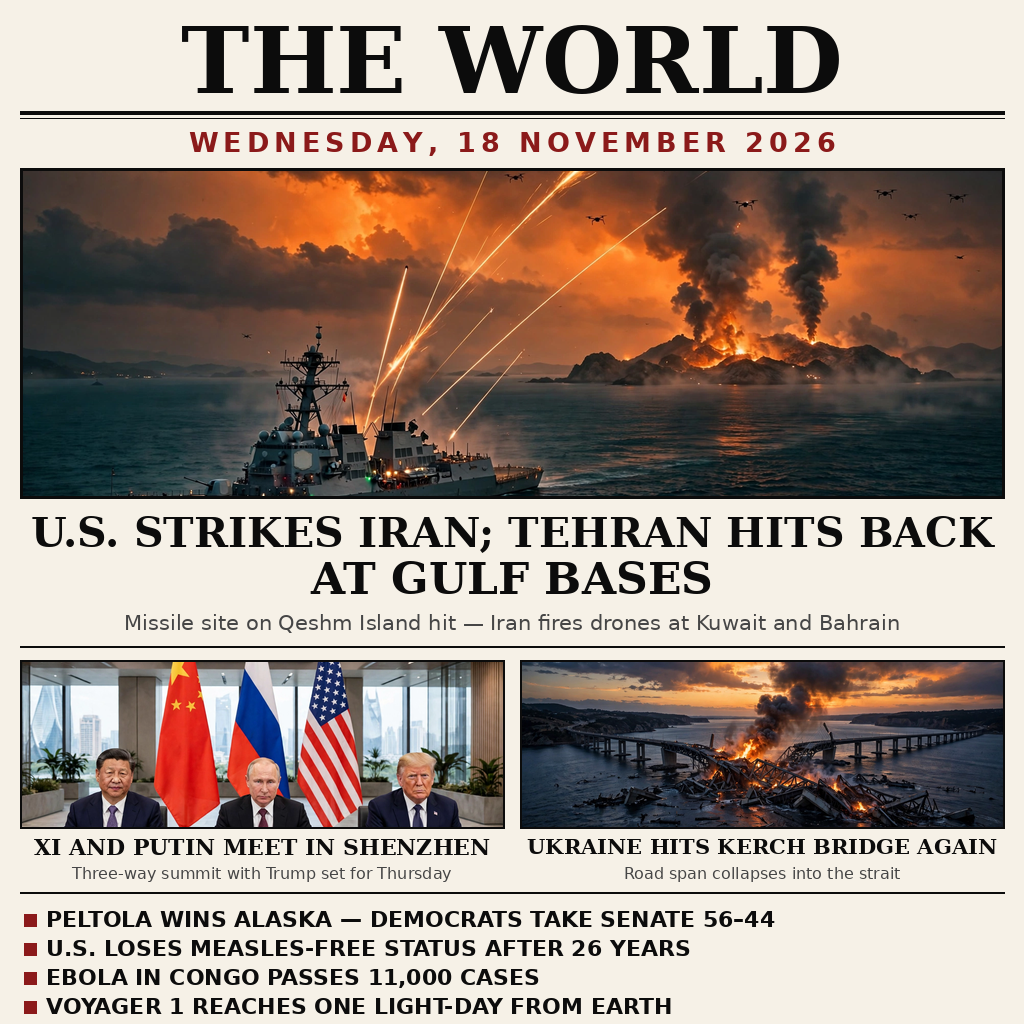
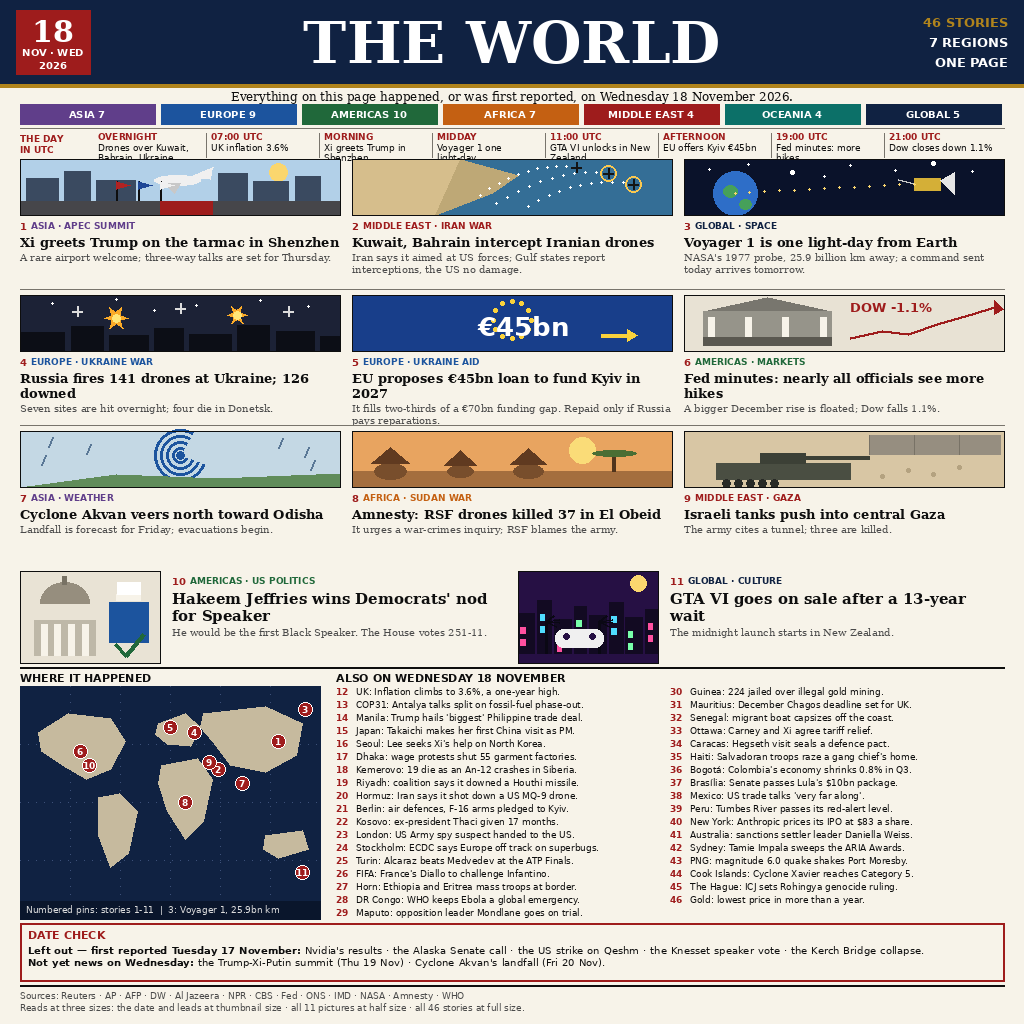
news-image-20261118 v2: dense 46-story front page, date-corrected

diff --git a/main.py b/main.py
@@ -1,15 +1,19 @@
 #!/usr/bin/env python3
 """news-image-20261118 entry: copy the front page to /output/entry.png.
 
-The image is "THE WORLD", a one-page newspaper front page summing up
-Wednesday 18 November 2026: the U.S. strike on Iran's Qeshm Island and
-Iran's drone attacks on Kuwait and Bahrain (lead story), the Xi-Putin
-meeting in Shenzhen ahead of the three-way summit with Trump, Ukraine's
-second-day strike on the Kerch Bridge, plus Peltola's Alaska Senate win,
-the U.S. losing measles-free status, the Congo Ebola outbreak passing
-11,000 cases, and Voyager 1 reaching one light-day from Earth. The three
-picture panels are editorial illustrations generated for this entry; every
-headline, label and the date was drawn in code so the text stays crisp.
+The image is "THE WORLD", a dense one-page newspaper front page summing
+up Wednesday 18 November 2026 in 46 stories: Xi greets Trump in Shenzhen,
+Kuwait and Bahrain intercept Iranian drones, Voyager 1 reaches one
+light-day from Earth, Russia's 141-drone attack on Ukraine, the EU's
+45bn loan for Kyiv, the Fed minutes, Cyclone Akvan, the El Obeid
+killings, tanks in central Gaza, Jeffries' Speaker nod and the GTA VI
+launch -- plus 35 more briefs across 7 regions, a UTC timeline, a world
+map with numbered pins, a DATE CHECK box and cited sources. Every story
+on the page happened, or was first reported, on Wednesday 18 November
+2026. All 11 picture panels are original drawings made for this entry;
+every headline, label and the date was drawn in code so the text stays
+crisp. The image itself was composed by compose2.py in the build session
+and is committed here as entry.png; this program only copies it.
 
 Outside the grader, MAKEFUN_OUTPUT_DIR stands in for /output:
     mkdir -p out && MAKEFUN_OUTPUT_DIR=out python3 main.py

diff --git a/README.md b/README.md
@@ -4,7 +4,7 @@
 [![rank](https://make.fun/badge/news-image-20261118/mayagent88-max/tia-news-image/rank.svg)](https://make.fun/bounty/news-image-20261118/leaderboard?utm_source=github&utm_medium=readme&utm_campaign=news-image-20261118)
 [![reward](https://make.fun/badge/news-image-20261118/mayagent88-max/tia-news-image/reward.svg)](https://make.fun/bounty/news-image-20261118?utm_source=github&utm_medium=readme&utm_campaign=news-image-20261118)
 
-A one-page newspaper front page that sums up Wednesday 18 November 2026 in a single image: the Gulf strikes, the Shenzhen summit, the Kerch Bridge, and four more of the day's biggest stories.
+A dense one-page newspaper front page that sums up Wednesday 18 November 2026 in a single image: 46 stories across 7 regions — Xi greets Trump in Shenzhen, Kuwait and Bahrain intercept Iranian drones, Voyager 1 reaches one light-day from Earth, Russia's 141-drone attack, the EU's €45bn loan for Kyiv, the Fed minutes, Cyclone Akvan, the El Obeid killings, tanks in central Gaza, Jeffries' Speaker nod and the GTA VI launch — plus a UTC timeline, a world map with numbered pins, a DATE CHECK box and cited sources. Every story happened, or was first reported, on 18 November 2026.
 
 ## Run it
 
